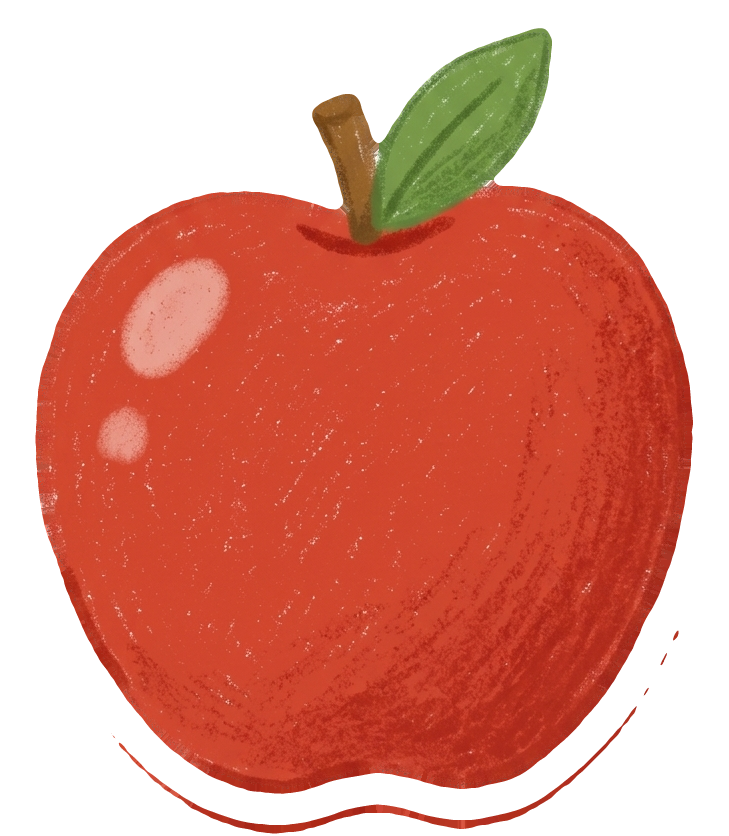
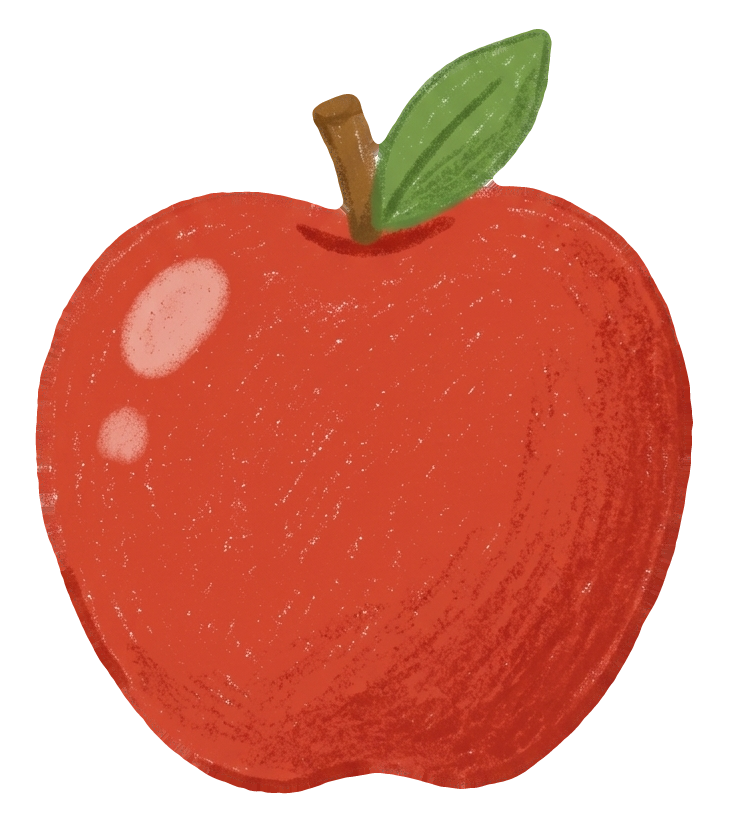
013 färdig som förlaga: recept för färgsång v2, mjukare äppeldans, ren kant under stora äpplen
- format/fargsang-v2.md: receptet från 013 (filerna, tidsbaserna, ritintrot, kritsvepet, figurlärdomar, rendering, Malin)
- format/overgangar-och-maner.md: kritsvepet i v2, ritintrot med skogsljud
- lk-figur och vita-kanter: lärdomarna från 013 (armar i halv vändning, klapp över magen, hejdå med fordon, bakade tunna kanter)
- verktyg/tunn_kant.py --skugga: grå skugga under kanten blir vit först; äpplet omgjort med den
- äppelmarschen: lutningen gungar mjukt och dansdelarna tonas över i varandra
- 013:s README:er visar det färdiga avsnittet

diff --git a/avsnitt/013-rod-brandbil/scener/film.js b/avsnitt/013-rod-brandbil/scener/film.js
@@ -104,12 +104,17 @@ function appelmarsch(u, s) {
     // polish (Sanna 2026-11-09 "polish apples dance"): in på 5 s, marscherar på stället, hoppar om vartannat, en våg av hopp
     // längs raden (ett äpple per slag) och sist alla tillsammans
     const x = lead + (mx - MARSCH[0]);
-    let h = 0, tilt = 0, mun = 'le';
-    if (s < 5) { h = 28 * b; tilt = 7 * side; }
-    else if (s < 9.2) { h = (((n + i) % 2) ? 34 : 12) * b; tilt = 6 * side * (i % 2 ? 1 : -1); }
-    else if (s >= 12.2 && s < 14.2) { const vem = n % 5 === i; h = (vem ? 150 : 10) * b; tilt = vem ? 0 : 4 * side; mun = vem && b > 0.6 ? 'o' : 'le'; }
-    else if (s < 14.2) { const egen = (n + i) % 2 === 0; h = egen ? 95 * b : 10 * b; tilt = 10 * Math.sin(Math.PI * slag / 2 + i); mun = egen && b > 0.7 ? 'o' : 'le'; }
-    else { h = 170 * b; tilt = 0; mun = b > 0.6 ? 'o' : 'le'; }
+    // Sanna 2026-11-09 "make apples dance a bit more smooth": lutningen gungar mjukt genom slaget i stället för att slå om
+    // på varje slag, och varje dansdel tonas över i nästa på 0,6 s (förr hoppade höjden när delen bytte, ibland i luften)
+    const gung = Math.sin(Math.PI * slag);
+    const del = f => f === 0 ? [28 * b, 7 * gung, 'le']
+      : f === 1 ? [(((n + i) % 2) ? 34 : 12) * b, 6 * gung * (i % 2 ? 1 : -1), 'le']
+      : f === 2 ? (() => { const egen = (n + i) % 2 === 0; return [egen ? 95 * b : 10 * b, 10 * Math.sin(Math.PI * slag / 2 + i), egen && b > 0.7 ? 'o' : 'le']; })()
+      : f === 3 ? (() => { const vem = n % 5 === i; return [(vem ? 150 : 10) * b, vem ? 0 : 4 * gung, vem && b > 0.6 ? 'o' : 'le']; })()
+      : [170 * b, 0, b > 0.6 ? 'o' : 'le'];
+    const GR = [5, 9.2, 12.2, 14.2], f = GR.filter(g => s >= g).length, ov = f > 0 ? ease(kl01((s - GR[f - 1]) / 0.6)) : 1;
+    const [h1, t1, mun] = del(f), [h0, t0] = f > 0 ? del(f - 1) : [h1, t1];
+    const h = lerp(h0, h1, ov), tilt = lerp(t0, t1, ov);
     const landar = b < 0.25 ? (0.25 - b) / 0.25 : 0;
     glattApple(x, 930 - h, 320, { mun, lager: 'bakom', tryck: 1 - 0.12 * landar });
     const el = $('bakom').lastElementChild; el.setAttribute('transform', `rotate(${tilt.toFixed(2)} ${x} ${930 - h}) ` + el.getAttribute('transform'));

diff --git a/verktyg/tunn_kant.py b/verktyg/tunn_kant.py
@@ -7,6 +7,8 @@ och kanten blir exakt N px runt den (rund, mjukad). Vita skåror som går in i f
 (t.ex. i armspetsar) fylls med närmaste kritfärg.
 
   python3 verktyg/tunn_kant.py N fil.png [fil2.png ...]     # skriver över filerna
+  python3 verktyg/tunn_kant.py N --skugga fil.png           # bilden har en grå skugga under kanten (013:s äpple):
+                                                            # ljusgrått blir vitt först, annars får skuggan egen kant
 Välj N = önskad kant i scenen (5 px vid zoom 1) / skalan saken visas i.
 """
 import sys
@@ -64,14 +66,18 @@ def ny_alfa(rgba, n):
     return rgb.clip(0, 255).astype(np.uint8), alfa
 
 
-def kor(fil, n):
+def kor(fil, n, skugga=False):
     rgba = np.asarray(Image.open(fil).convert("RGBA"))
+    if skugga:   # Sanna 2026-11-09 "apples have some extra white rim on bottom part": den grå skuggan räknades som fyllning
+        rgba = rgba.copy(); c = rgba[..., :3].astype(int)
+        rgba[((c.max(2) - c.min(2)) < 26) & (c.min(2) > 110) & (rgba[..., 3] > 0), :3] = 255
     rgb, alfa = ny_alfa(rgba, n)
     Image.fromarray(np.dstack([rgb, (alfa * 255).astype("uint8")])).save(fil, optimize=True)
 
 
 if __name__ == "__main__":
-    n = float(sys.argv[1])
-    for fil in sys.argv[2:]:
-        kor(fil, n)
+    n, filer = float(sys.argv[1]), sys.argv[2:]
+    skugga = "--skugga" in filer
+    for fil in [f for f in filer if f != "--skugga"]:
+        kor(fil, n, skugga)
         print(fil)

diff --git a/format/fargsang-v2.md b/format/fargsang-v2.md
@@ -1,0 +1,82 @@
+# Färgsång v2 – receptet från 013 Röda sången
+
+013 Röda sången (färdig 2026-11-09, Sanna: *"im happy with the end result"*) är förlagan för nya färgsånger i art direction v2. Allt här är gjort och provat i `avsnitt/013-rod-brandbil/`; kopiera därifrån i stället för att börja om.
+
+## Formen
+
+| Del | 013 | Tid i filmen |
+|---|---|---|
+| Intro | formatets intro med jingeln, 9,0 s, slutar med ett kritsvep in i ritandet | 0:00–0:09 |
+| Kritan ritar | konturen i ett lugnt drag (7 s), skogsljud under, kort väntan, riktiga bilden fylls i inifrån, "Ett rött äpple!", "Nu kör vi!" | 0:09–0:22 |
+| Vers 1 och refräng 1 | körscen på vägen, en röd sak i taget, refrängen på en egen plats (äppelbacken) | 0:22–1:31 |
+| Danspaus | sakerna dansar (äppelmarschen) | 1:31–1:47 |
+| Discot | tre djur dansar, klistermärken med det vi hittat, sista refrängen, hejdå | 1:47–2:29 |
+| Slutet | kritirisen | 2:29–2:43 |
+
+Max 3 figurer och 2 platser gäller som vanligt; discot och refrängplatsen är medvetna undantag (se `regler.md`).
+
+## Filerna
+
+| Fil | Vad |
+|---|---|
+| `storyboard-v2/storyboard.md` | **Tabellen styr allt:** `| id | m:ss.s | plats | ljud | bild |`. Tiden är avsnittstid och läses av `film.js`, så en ändrad tid här flyttar filmen |
+| `storyboard-v2/scen-kit.js` | Allt som ritas: platser, saker, fordon, kameran, kritsvepet (`rodsvep`). Samma kod ritar storyboarden (`board.html`) och filmen |
+| `storyboard-v2/kanel-motor.js` | Figurens rigg (från `lk-figur`) |
+| `scener/film.js` | Rörelsen per storyboardbild: `'04c': (u, s, d) => …` (u = 0–1 i bilden, s = sekunder in, d = längd), plus `SVEP` (tiderna för kritsvepen) |
+| `scener/<scen>/index.html` | En scen per plats: sätter `window.SCEN = [första, sista]` och `window.ROSTER` (berättarens repliker med avsnittstid) |
+| `scener/render.mjs` | `node scener/render.mjs scener/<scen>` (film), `… --snabb` (förhandsvisning), `… scener/<scen> 2 7.5` (stillbilder), `node scener/render.mjs intro` |
+| `film/satt-ihop.sh` | Intro + scenerna i ordning, sången, effekterna, skogsljudet → `film/avsnitt-NNN-grovklipp.mp4` |
+| `ljud.md`, `rader.txt`, `suno.md` | Ljudlistan, sångens ordtider (whisper), Suno-prompten |
+
+## Tre tidsbaser
+
+Håll isär dem, annars hamnar varje ändring fel:
+
+- **Sångtid**: tid i `sang.m4a`. **Avsnittstid = sångtid + 24,5** (013).
+- **Avsnittstid**: storyboardtabellen, `SVEP`, `ROSTER`.
+- **Filmtid**: det Sanna ser och skriver i feedbacken. Introt kortades 11,3 → 9,0 s och väntan efter konturen klipps bort (`KAP`), så **filmtid = avsnittstid − 2,3** fram till klippet och **− 3,8** efter det (013).
+- **Stillbilder** tas i **scentid**: 0 = scenens första bild (vägen börjar på avsnittstid 26,5, äppelmarschen 95,3, discot 110,6).
+
+Räkna om Sannas filmtid till avsnittstid innan du letar i koden, och skriv formeln i avsnittets README.
+
+## Ritintrot
+
+- Introt slutar med ett kritsvep som drar rakt in i ritandet. Ingen papperszoom.
+- Kritan ritar **konturen i ett drag, lugnt** (01a ca 7 s), sedan blad och skaft. Den riktiga bilden fylls i inifrån först på svaret.
+- **Skogsljud** (`assets/ljud/effekter/skogsljud/skogsljud-1.m4a`) under hela ritandet: från svepet ut ur introt tills sången har börjat, volym 0,4, in 1,2 s och ut 2,2 s.
+- Väntan efter konturen kortas i `satt-ihop.sh` med `KAP0`/`KAP`. **Tre saker flyttas ihop**: `KAP`, sångens `adelay` och storyboardraden för 01b. Gör konturen längre, så kortas väntan lika mycket och sången står kvar i takt.
+- Repliken *"Vad kan det vara?"* används aldrig. 013 säger *"Vad ritar kritan? Något runt."*
+
+## Kritsvepet
+
+- `rodsvep(k, false)` i `scen-kit.js` och en kopia (`svepIn`) i introt, i avsnittets färg. **Ingen sak i svepet** (äpplet som blinkade förbi togs bort).
+- Faser: in 0–0,46, helt i färg 0,46–0,54 (klippet sker här), ut 0,54–1. `SV = 0.8`, så hela svepet tar 1,6 s.
+- Vaxkornet är 006:s: `kritsvep-korn.png` som mask, så att papperet skymtar i färgen, och en förskjutning som ger trasiga kritkanter (`svepVax()`). Elva breda vaxdrag i den mörkare tonen och en streckad vit kant.
+- Kritan sicksackar vid kanten under in-fasen.
+- Lägg svepet där sången byter plats och kontrollera det i filmen: i 013 flyttades svepet vid 1:10 senare och det vid 1:30 tidigare.
+
+## Figurer och fordon (lärdomar)
+
+- **Speglad scen:** 013:s scener ritas spegelvänt. Ett positivt `BX` flyttar brandbilen åt **vänster** på skärmen, och kaninens `arm-l` sitter på motorhuvsidan. Prova en stillbild innan du ändrar ett tecken.
+- **Armarna i bilen:** riktningsposens bortre arm glider in bakom kroppen först nära en hel vändning, annars ser ena armen kortare ut. Tassen på motorhuvsidan lyfts så att den syns.
+- **Klapp:** händerna ska mötas över magen, annars syns inget klapp.
+- **Munnar i discot** öppnas bara på slaget och är mindre (0,72), annars ser figurerna "nya" ut.
+- **Hejdå:** vinkningarna börjar en i taget (0,25 s isär). Fordonet kör fram bakifrån genom en lucka mellan dansarna och växer mjukt; dansarna krymper samtidigt.
+- **Ingen slump som byter bild:** äppelträd får ett fast antal äpplen (annars flimrar de).
+- **Glitter** sätts i en ring runt sakens egen form (mitt och radie per sak), inte i en fast ruta.
+- **Klistermärken i discot** balanseras två och två runt kulan.
+
+## Vita kanter
+
+Bakade kanter med `verktyg/tunn_kant.py`, regeln 3 px + 1 % av höjden i bild (skillen `vita-kanter`). Mät stora saker: i 013 var träd, ballong, blomma och stora äpplen för tjocka och fick `-tunn.png`-kopior. Har bilden en grå skugga under kanten, kör `--skugga`.
+
+## Rendera och bygga
+
+1. Spara den gamla filmen först: `cp film/avsnitt-NNN-final.mp4 film/avsnitt-NNN-final-fore-<runda>.mp4`.
+2. Rendera **högst två scener åt gången** (fem samtidigt kraschade Playwright). Kraschar en scen, rendera om den.
+3. `bash film/satt-ihop.sh`, sedan `cp film/avsnitt-NNN-grovklipp.mp4 film/avsnitt-NNN-final.mp4`. *"No space left on device"* går över, kör igen.
+4. Kontrollera: längden, stillbilder på det som ändrats (beskär nära), whisper på sångstarten (sången ska börja direkt efter "Nu kör vi!"), och volymen där ett nytt ljud lagts.
+
+## Berättarens repliker
+
+ElevenLabs "Malin – Professional Swedish Narration", Eleven v3, stability 0,5, similarity 0,75. Tagningen trimmas med `silenceremove…areverse…apad=pad_dur=0.05`, läggs i `assets/ljud/roster/<repliken>-N.m4a`, originalet i `produktion/ljud-original/roster/<avsnitt>/` med en rad i dess README, och repliken i scenens `ROSTER`.

diff --git a/.claude/skills/lk-figur/SKILL.md b/.claude/skills/lk-figur/SKILL.md
@@ -128,6 +128,13 @@ Playwright comes from `~/.claude/skills/launch-video/scripts/node_modules`. mp4 
 - **Roots, Ludde:** a white line above a tilted ear = the body's rim strip in the ear part (rebuild with a rounded root); an arm floating on the tummy = a front arm with a full rim (use `-fram`); hooves floating mid-tummy = arms too short to clap (pat at the edges). Check a stills sheet every 0.5 s of the test film, cropped close; zsh needs `${=TS}` to split a list of times.
 - **Waving:** past about −55° the arm goes behind the body.
 - **Arms don't fly:** when turning or switching pose, keep the arm's angle and slide it in/out behind the body (bil-test: `arm-l2` keeps `50 + ratt·0.6` and slides `+200·(1−vand)`, `arm-r` keeps −38°). Blending two poses whose arm angles differ a lot (hurra 70° → clap −160°) swings the arm through the air: lower the arms inside the first segment instead. Only the gesture itself (wave, clap) may swing an arm.
+- **One arm looks shorter at a half turn** (013, kaninen in the truck): if the far arm slides in and the clone slides out linearly with `vand`, both are half hidden at `vand` ≈ 0.5. Slide them only near a full turn: `e = mjuk((vand − 0.55) / 0.43)`, clone `IN·(1 − e)`, far arm `IN·e`, clone visible only while `e > 0`. Code: `storyboard-v2/kanel-motor.js` in 013.
+- **Paw on the hood:** in a vehicle the arm on the hood side hides behind the bodywork. Raise it (013: `armar[0] + 32`) so the paw shows over the hood.
+- **Clap that reads:** the hands must meet over the tummy patch, in front of the body (013 frog: `KLAPP = c => [−112 + 30c, 200 − 120c, 36]`). If they meet beside the body, nobody sees a clap.
+- **Mouths in a dance:** open only on the beat (smoothstep of the beat accent) and scale the open mouth to ~0.72, or the faces look like different characters.
+- **Goodbye with a vehicle:** stagger the waves (0.25 s apart), and let the vehicle drive up from the back through a gap between the dancers, growing smoothly, while the dancers shrink. 013: `discot/scen.js`, segment 12d.
+- **Mirrored scenes:** if a scene is drawn mirrored (013), a positive x offset moves things LEFT on screen and `arm-l` is on the screen-right side. Check a still before changing a sign.
+- **Folded parts:** hide a part's post or hinge when it is folded away (013's ladder post showed as a tiny square beside the bunny).
 - **Baked patches:** baked light patches (tummy, muzzle) don't follow the face, so lift them out.
 - **Image2image edits aren't pixel-aligned** (~2 % differs), so cut every part from ONE image.
 - **Jagged parts:** parts cut from art (the steering wheel) come out jagged. Draw them in code or generate them as separate clean art (bil: ring, column and spoke are SVG strokes with a white 68/56 px under-stroke as rim).

diff --git a/format/overgangar-och-maner.md b/format/overgangar-och-maner.md
@@ -10,9 +10,17 @@ Samma rörelser, ljud och sätt att prata i alla avsnitt. Barn känner igen det 
 | **Kritsvep** | Platsbyte (A → B) och till/från titelkortet | Ett stort kritklotter i nästa plats **väggfärg** (se `bakgrunder/README.md`) fyller bilden från vänster till höger och suddas sedan bort åt samma håll så att nästa bild syns. ~1 s | *skrrrrt* |
 | **Zoom ut till papperet** | Från berättelsen till avslutningen | Omvänd zoom: platsen krymper och blir en teckning på papperet. ~1,5 s | mjukt *swoosh* |
 
+**Kritsvepet i v2 (013, Sanna 2026-11-09):** krita, snabbt och enkelt. Ett lager breda vaxdrag i avsnittets färg med 006:s vaxkorn (papperet skymtar igenom) och trasiga kritkanter, en streckad vit kant och kritan som sicksackar vid kanten. Hela svepet 1,6 s, helt täckt bara en kort stund vid klippet. **Ingen sak i svepet.** Introt slutar med samma svep rakt in i ritandet, utan papperszoom. Kod: `rodsvep()` och `svepVax()` i `avsnitt/013-rod-brandbil/storyboard-v2/scen-kit.js`; mer i [fargsang-v2.md](fargsang-v2.md).
+
 **Inom samma plats:** ingen övergång. Klipp direkt eller låt kameran glida.
 
 Inga andra övergångar (inga stjärnwipes, inga 3D-vändningar, inga blixtar).
+
+## Ritintrot (v2)
+
+- Kritan ritar **konturen i ett lugnt drag** (ca 7 s), sedan detaljerna. Barnet hinner följa linjen.
+- **Skogsljud** (`skogsljud-1`) ligger lågt under hela ritandet och tonas ut när sången börjat.
+- Väntan efter konturen är kort. Den riktiga bilden fylls i inifrån på svaret, med *pling* och krit-gnistor.
 
 ## Kamera
 
@@ -66,6 +74,7 @@ Hela listan, med tagningar, längder och vad varje ljud används till, står i `
 | `boing` + `duns` | hopp och landning |
 | `brum`, `tuta-tut`, `pschhh`, `hjul-gnissel` | bussen kör, tutar, öppnar dörren, stannar |
 | `fagelkvitter` | utomhus på dagen, lågt under scenen |
+| `skogsljud` | lågt under kritan som ritar (ritintrot) |
 
 Nya ljud får läggas till, men samma händelse ska alltid ha samma ljud.
 

diff --git a/avsnitt/013-rod-brandbil/scener/README.md b/avsnitt/013-rod-brandbil/scener/README.md
@@ -9,14 +9,14 @@ Scenerna ritas med **samma kod som storyboarden**: `../storyboard-v2/scen-kit.js
 
 | Scen | Storyboard | Avsnittstid |
 |---|---|---|
-| `../intro/` | 00 | 0:00–0:11.3 (formatets intro med jingeln, som 014) |
-| `kritan-ritar/` | 01a–01c | 0:11.3–0:26.5 (zoom in i äpplet när sången börjar) |
-| `vagen-1/` | 02a–04i | 0:26.5–1:12.9 (refräng 1 på äppelbacken) |
-| `vagen-2/` | 05a–07a–i | 1:12.9–2:02.2 (bussen, ballongen, tungan med gissningspausen, refräng 2) |
-| `chilibilen/` | 08a–12e | 2:02.2–2:44.9 |
-| `discot/` | 13a–14c | 2:44.9–3:08.2 |
-| `slutet/` | 15 | 3:08.2–3:24.9 (kritirisen) |
+| `../intro/` | 00 | 0:00–0:09.0 (formatets intro med jingeln, kortat; slutar med kritsvepet `svepIn`) |
+| `kritan-ritar/` | 01a–01c | 0:11.3–0:26.5 (konturen 0:11.3–0:18.5; väntan 0:19.5–0:21.0 klipps bort i `../film/satt-ihop.sh`) |
+| `vagen-1/` | 02a–07i | 0:26.5–1:35.3 (vägen, bussen, ballongen, blomman, refräng 1 och 2 på äppelbacken) |
+| `applemarsch/` | 08a | 1:35.3–1:50.6 (danspausen: äpplena marscherar och hoppar) |
+| `discot/` | 11a–12d | 1:50.6–2:32.8 (discot, sista refrängen, hejdå med brandbilen som kör fram) |
+| `slutet/` | 13 | 2:32.8– (kritirisen) |
 
-**Kvar:** ljudeffekterna ur `../ljud.md` är inte lagda (bara "Vad kan det vara?" ur röstbanken); de tre nya berättarrösterna saknas; munformerna och slangen är enkla; brandbilen är den oputsade E. Discot och slutet ska få 014:s utseende.
+`chilibilen/` och `_skiss-ratt/` används inte i filmen längre. Byggs ihop av `../film/satt-ihop.sh` (`SCENER=(kritan-ritar vagen-1 applemarsch discot slutet)`). Receptet för nästa färgsång: [format/fargsang-v2.md](../../../format/fargsang-v2.md).
+
 
 **Rörelseregler:** figurer och fordon snurrar och vänds aldrig, de lutar och skuttar. Brandbilen kör alltid åt höger. Inga effektstreck och inga puffar eller bubblor; blåljuset blinkar i takten. Sången klipps aldrig.

diff --git a/.claude/skills/vita-kanter/SKILL.md b/.claude/skills/vita-kanter/SKILL.md
@@ -47,6 +47,14 @@ Don't:
 - Don't rim background plates, or clouds and islands painted into the plate (a cloud that is its own cut-out image, as in the godnattsagor, does get a rim), or things already inside a white sticker disc (the stickers in an arc).
 - Don't change a locked character's image to change its rim. The code rim goes on top.
 
+## Baked rims in v2 code scenes (013)
+
+013's scenes (`storyboard-v2/scen-kit.js`) don't load `kant.js`: the rim is baked into each cut-out with `verktyg/tunn_kant.py N file.png`, which recomputes the rim as exactly N px around the colour.
+- Pick N from the rule: rim in frame = 3 px + 1 % of the item's height in frame, divided by the scale the image is drawn at. Measure big items in a still: in 013 the apple trees (2.6 % of their height), balloon, flower and big apples were too thick and got `-tunn.png` copies (N 11–18), while the road tree, grass and bush were fine.
+- Keep the original and write the thin copy beside it (`<name>-tunn.png`); point only the big uses at it (013 `glattApple`: `h >= 200`).
+- **Grey drop shadow under the rim** (013's apple): the tool reads the grey as colour and puts a second rim around it, so white scraps show under the item. Run with `--skugga`, which turns light grey white first. Check every thin copy on a dark background before rendering.
+- The tool eats thin white things inside the item (the balloon string got thinner); check those too.
+
 ## Tuning
 
 The numbers are at the top of `verktyg/kant.js`: `BAS` (3 px), `ANDEL` (0.01), `VAG` (how wobbly the edge is) and `KORN` (crayon grain). Change them there, and every episode that loads the script follows. Check with a still (`node render.mjs <scene> <t>`) in a close-up and in a wide shot.

diff --git a/avsnitt/013-rod-brandbil/README.md b/avsnitt/013-rod-brandbil/README.md
@@ -1,4 +1,6 @@
-# Avsnitt 013 – Röda sången (plan)
+# Avsnitt 013 – Röda sången
+
+> **Färdig 2026-11-09** (`film/avsnitt-013-final.mp4`, 2:43). Det här avsnittet är förlagan för nya färgsånger: receptet står i **[format/fargsang-v2.md](../../format/fargsang-v2.md)**. Filmen byggs av kodscenerna i [scener/](scener/README.md) och tiderna i [storyboard-v2/storyboard.md](storyboard-v2/storyboard.md). Tidsbaser: avsnittstid = sångtid + 24,5 s; filmtid = avsnittstid − 2,3 s fram till 0:19.5 och − 3,8 s efter. Stycket nedan och leopard-versionen längre ner är planen, kvar som bakgrund.
 
 > **Ny struktur 2026-11-08.** Kaninen (v2, riggad) kör brandbilen på **vägen** och letar rött: bussen, ballongen och tungan. Refrängen är ett **rally på äppelbacken** (uppför, sicksack mellan äppelträden, studsa på jätteäpplen i en närbild, nerför). Röd sak 3 är **musen i sin chilibil**: hon bjuder på chili, kaninen tar en för stor tugga, och musen **sprutar vatten med brandbilens slang**. Sedan delar de äpplen och dansar. Kritan ritar ett **äpple** i introt.
 > Planen och bildstoryboarden ligger i **[storyboard-v2/](storyboard-v2/storyboard.md)**, sången i [sang.md](sang.md), Suno-prompten i [suno.md](suno.md), refrängen i [refrang-plan.md](refrang-plan.md), ljuden i [ljud.md](ljud.md), och det som finns och behöver göras i **[bildlista.md](bildlista.md)**. **Sången är tagen** (tagning 3, `sang.m4a`, 3:00.4 med en inlagd gissningspaus före "Tungan", originalet är `sang-utan-paus.m4a`, ordtider i `rader.txt`; tagning 2 ligger kvar som `sang-tagning2.m4a`). Kritan ritar sägs av BERÄTTAREN före sången, avsnittstid = sångtid + 31,6 s.

diff --git a/format/README.md b/format/README.md
@@ -7,6 +7,7 @@ Alla avsnitt har **samma ram**. Bara berättelsen i mitten är ny. Intro, outro,
 | [regler.md](regler.md) | Produktionsregler: hur många figurer, platser och scener ett avsnitt får ha |
 | [intro-outro.md](intro-outro.md) | Den fasta introt och outrot, med tider, text och jingel |
 | [overgangar-och-maner.md](overgangar-och-maner.md) | Övergångar, kamera, ljud och berättarens sätt att prata |
+| [fargsang-v2.md](fargsang-v2.md) | Receptet för en färgsång i art direction v2, från 013 Röda sången: filerna, tidsbaserna, ritintrot, kritsvepet, rendering |
 | [shorts.md](shorts.md) | Egna regler för Shorts som görs från början (Gissa teckningen, Godnattsagan) |
 | [tittut.md](tittut.md) | Serien Tittut: en figur gömmer sig bakom flera saker (utkast) |
 
